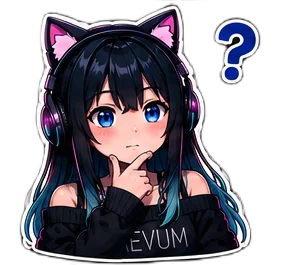
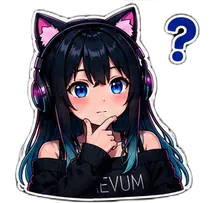
perf(images): deeply optimize all assets and expand mobile touch target hit areas to 44px

diff --git a/scripts/optimize-images.js b/scripts/optimize-images.js
@@ -6,73 +6,81 @@ import { fileURLToPath } from 'node:url';
 const __filename = fileURLToPath(import.meta.url);
 const __dirname = path.dirname(__filename);
 const assetsDir = path.resolve(__dirname, '../assets');
+const publicLogosDir = path.resolve(__dirname, '../public/assets/logos');
 
-async function processFile(srcPath, destPath, options = { width: 400, quality: 85 }) {
+async function processFile(srcPath, destPath, options = { width: 400, quality: 80 }) {
   if (!fs.existsSync(srcPath)) return;
-  const beforeSize = (fs.statSync(srcPath).size / 1024).toFixed(1);
-  const sharpInstance = sharp(srcPath);
+  const inputBuffer = fs.readFileSync(srcPath);
+  const beforeSize = (inputBuffer.length / 1024).toFixed(1);
+  const sharpInstance = sharp(inputBuffer);
   if (options.width) {
     sharpInstance.resize({ width: options.width, withoutEnlargement: true });
   }
-  await sharpInstance.webp({ quality: options.quality || 85, effort: 6 }).toFile(destPath);
-  const afterSize = (fs.statSync(destPath).size / 1024).toFixed(1);
+  const outputBuffer = await sharpInstance.webp({ quality: options.quality || 80, effort: 6 }).toBuffer();
+  fs.writeFileSync(destPath, outputBuffer);
+  const afterSize = (outputBuffer.length / 1024).toFixed(1);
   console.log(`✓ ${path.relative(assetsDir, srcPath)} -> ${path.relative(assetsDir, destPath)}: ${beforeSize} KB -> ${afterSize} KB (WebP)`);
 }
 
 async function optimizeImages() {
   console.log('[Image Optimizer] Starting comprehensive image compression & WebP conversion...\n');
 
+  if (!fs.existsSync(publicLogosDir)) {
+    fs.mkdirSync(publicLogosDir, { recursive: true });
+  }
+
   // 1. Logos
   await processFile(
     path.join(assetsDir, 'logos/AevumOS-transparent.png'),
     path.join(assetsDir, 'logos/AevumOS-transparent.webp'),
-    { width: 512, quality: 90 }
+    { width: 128, quality: 80 }
+  );
+  fs.copyFileSync(
+    path.join(assetsDir, 'logos/AevumOS-transparent.webp'),
+    path.join(publicLogosDir, 'AevumOS-transparent.webp')
   );
 
   await processFile(
     path.join(assetsDir, 'logos/Aevum-ascii.png'),
     path.join(assetsDir, 'logos/Aevum-ascii.webp'),
-    { width: 800, quality: 85 }
+    { width: 440, quality: 80 }
+  );
+  fs.copyFileSync(
+    path.join(assetsDir, 'logos/Aevum-ascii.webp'),
+    path.join(publicLogosDir, 'Aevum-ascii.webp')
   );
 
   await processFile(
     path.join(assetsDir, 'I2FLabs-logo.png'),
     path.join(assetsDir, 'I2FLabs-logo.webp'),
-    { width: 600, quality: 85 }
+    { width: 320, quality: 80 }
   );
 
   await processFile(
     path.join(assetsDir, 'I2FLabs-logo-black.png'),
     path.join(assetsDir, 'I2FLabs-logo-black.webp'),
-    { width: 600, quality: 85 }
+    { width: 320, quality: 80 }
   );
 
   await processFile(
     path.join(assetsDir, 'unikorn-logo.png'),
     path.join(assetsDir, 'unikorn-logo.webp'),
-    { width: 400, quality: 85 }
+    { width: 96, quality: 80 }
   );
 
   await processFile(
     path.join(assetsDir, 'unikorn-logo-dark.png'),
     path.join(assetsDir, 'unikorn-logo-dark.webp'),
-    { width: 400, quality: 85 }
+    { width: 96, quality: 80 }
   );
 
   await processFile(
     path.join(assetsDir, 'earth2.png'),
     path.join(assetsDir, 'earth2.webp'),
-    { width: 1200, quality: 80 }
+    { width: 600, quality: 75 }
   );
 
-  // 2. NASA Hubble Space Background
-  const nasaJpg = path.join(assetsDir, 'nasa-hubble-space-telescope-k20fpgVfoPE-unsplash.jpg');
-  const nasaWebp = path.join(assetsDir, 'nasa-hubble-space-telescope.webp');
-  if (fs.existsSync(nasaJpg)) {
-    await processFile(nasaJpg, nasaWebp, { width: 1920, quality: 80 });
-  }
-
-  // 3. Stickers Subdirectories (An, Luna, Vidus, Zenith)
+  // 2. Stickers Subdirectories (An, Luna, Vidus, Zenith)
   const stickersRoot = path.join(assetsDir, 'stickers');
   if (fs.existsSync(stickersRoot)) {
     const dirs = fs.readdirSync(stickersRoot);
@@ -84,32 +92,51 @@ async function optimizeImages() {
           if (file.endsWith('.png')) {
             const pngPath = path.join(dirPath, file);
             const webpPath = path.join(dirPath, file.replace(/\.png$/, '.webp'));
-            await processFile(pngPath, webpPath, { width: 400, quality: 85 });
+            await processFile(pngPath, webpPath, { width: 220, quality: 78 });
           }
         }
       }
     }
   }
 
-  // 4. Head Gif (9.69 MB Animated GIF -> Highly Optimized Animated WebP)
+  // 3. Agent Avatars
+  const avatarDir = path.join(assetsDir, 'agent-avatar');
+  if (fs.existsSync(avatarDir)) {
+    const avatars = ['an_avatar.webp', 'luna_avatar.webp', 'vidus_avatar.webp', 'zenith_avatar.webp'];
+    for (const av of avatars) {
+      const avPath = path.join(avatarDir, av);
+      if (fs.existsSync(avPath)) {
+        await processFile(avPath, avPath, { width: 320, quality: 75 });
+      }
+    }
+  }
+
+  // 4. Head Animated Brain (Resize to 200px width & compress to drastically cut payload)
   const headGif = path.join(assetsDir, 'head.gif');
   const headWebp = path.join(assetsDir, 'head.webp');
   if (fs.existsSync(headGif)) {
     const beforeSize = (fs.statSync(headGif).size / 1024 / 1024).toFixed(2);
     try {
-      await sharp(headGif, { animated: true })
-        .resize({ width: 320, withoutEnlargement: true })
-        .webp({ quality: 50, effort: 5 })
-        .toFile(headWebp);
-      const afterSize = (fs.statSync(headWebp).size / 1024).toFixed(1);
+      const gifBuffer = fs.readFileSync(headGif);
+      const webpBuffer = await sharp(gifBuffer, { animated: true })
+        .resize({ width: 200, withoutEnlargement: true })
+        .webp({ quality: 30, effort: 6 })
+        .toBuffer();
+      fs.writeFileSync(headWebp, webpBuffer);
+      const afterSize = (webpBuffer.length / 1024).toFixed(1);
       console.log(`✓ Converted Head GIF: ${beforeSize} MB -> ${afterSize} KB (Animated WebP)`);
     } catch (err) {
       console.warn('Animated WebP conversion note:', err.message);
     }
   }
 
+  // Clean up any tmp files if present
+  const tmpFile = path.join(assetsDir, 'agent-avatar/tmp_an_avatar.webp');
+  if (fs.existsSync(tmpFile)) {
+    try { fs.unlinkSync(tmpFile); } catch (_) {}
+  }
+
   console.log('\n✨ [Image Optimizer] Comprehensive optimization complete!\n');
 }
 
 optimizeImages().catch(console.error);
-

diff --git a/src/components/AgentsShowcase.jsx b/src/components/AgentsShowcase.jsx
@@ -182,20 +182,24 @@ export const AgentsShowcase = ({ activeLang, onOpenTrialModal }) => {
           ))}
         </div>
 
-        {/* Dot Indicators */}
-        <div className="flex justify-center items-center gap-2.5 py-4 bg-[#07080E] border-subtle-b">
+        {/* Dot Indicators (44x44px Touch Targets for Accessibility) */}
+        <div className="flex justify-center items-center gap-1 py-4 bg-[#07080E] border-subtle-b">
           {agents.map((agent, idx) => (
             <button
               key={idx}
               onClick={() => scrollToSlide(idx)}
               aria-label={`Xem persona ${agent.name} (${agent.role})`}
               title={`Persona ${agent.name}`}
-              className={`transition-all duration-300 rounded-full cursor-pointer ${
-                activeSlide === idx
-                  ? 'w-5 h-1.5 bg-cyan-400'
-                  : 'w-1.5 h-1.5 bg-white/20 hover:bg-white/40'
-              }`}
-            />
+              className="min-w-[44px] min-h-[44px] flex items-center justify-center cursor-pointer p-2"
+            >
+              <span
+                className={`block transition-all duration-300 rounded-full ${
+                  activeSlide === idx
+                    ? 'w-6 h-2 bg-cyan-400'
+                    : 'w-2 h-2 bg-white/20 hover:bg-white/40'
+                }`}
+              />
+            </button>
           ))}
         </div>
       </div>

diff --git a/src/components/Testimonials.jsx b/src/components/Testimonials.jsx
@@ -141,20 +141,24 @@ export const Testimonials = ({ activeLang }) => {
           ))}
         </div>
 
-        {/* Dot Indicators */}
-        <div className="flex justify-center items-center gap-2.5 py-3 border-subtle-t">
+        {/* Dot Indicators (44x44px Touch Targets for Accessibility) */}
+        <div className="flex justify-center items-center gap-1 py-3 border-subtle-t">
           {reviews.map((rev, idx) => (
             <button
               key={idx}
               onClick={() => scrollToSlide(idx)}
               aria-label={`Xem nhận xét từ ${rev.name} (${rev.role})`}
               title={`Nhận xét của ${rev.name}`}
-              className={`transition-all duration-300 rounded-full cursor-pointer ${
-                activeSlide === idx
-                  ? 'w-5 h-1.5 bg-cyan-400'
-                  : 'w-1.5 h-1.5 bg-white/20 hover:bg-white/40'
-              }`}
-            />
+              className="min-w-[44px] min-h-[44px] flex items-center justify-center cursor-pointer p-2"
+            >
+              <span
+                className={`block transition-all duration-300 rounded-full ${
+                  activeSlide === idx
+                    ? 'w-6 h-2 bg-cyan-400'
+                    : 'w-2 h-2 bg-white/20 hover:bg-white/40'
+                }`}
+              />
+            </button>
           ))}
         </div>
       </div>

diff --git a/src/components/BentoGrid.jsx b/src/components/BentoGrid.jsx
@@ -190,19 +190,23 @@ export const BentoGrid = ({ activeLang }) => {
           ))}
         </div>
 
-        {/* Mobile Dot Indicators */}
-        <div className="flex justify-center items-center gap-2.5 py-3 border-subtle-t">
+        {/* Mobile Dot Indicators (44x44px Touch Targets for Accessibility) */}
+        <div className="flex justify-center items-center gap-1 py-3 border-subtle-t">
           {items.map((_, idx) => (
             <button
               key={idx}
               onClick={() => scrollToSlide(idx)}
               aria-label={`Go to slide ${idx + 1} - ${items[idx].title}`}
-              className={`transition-all duration-300 rounded-full cursor-pointer p-1 ${
-                activeSlide === idx
-                  ? 'w-5 h-2 bg-cyan-400'
-                  : 'w-2 h-2 bg-white/20 hover:bg-white/40'
-              }`}
-            />
+              className="min-w-[44px] min-h-[44px] flex items-center justify-center cursor-pointer p-2"
+            >
+              <span
+                className={`block transition-all duration-300 rounded-full ${
+                  activeSlide === idx
+                    ? 'w-6 h-2 bg-cyan-400'
+                    : 'w-2 h-2 bg-white/20 hover:bg-white/40'
+                }`}
+              />
+            </button>
           ))}
         </div>
       </div>
